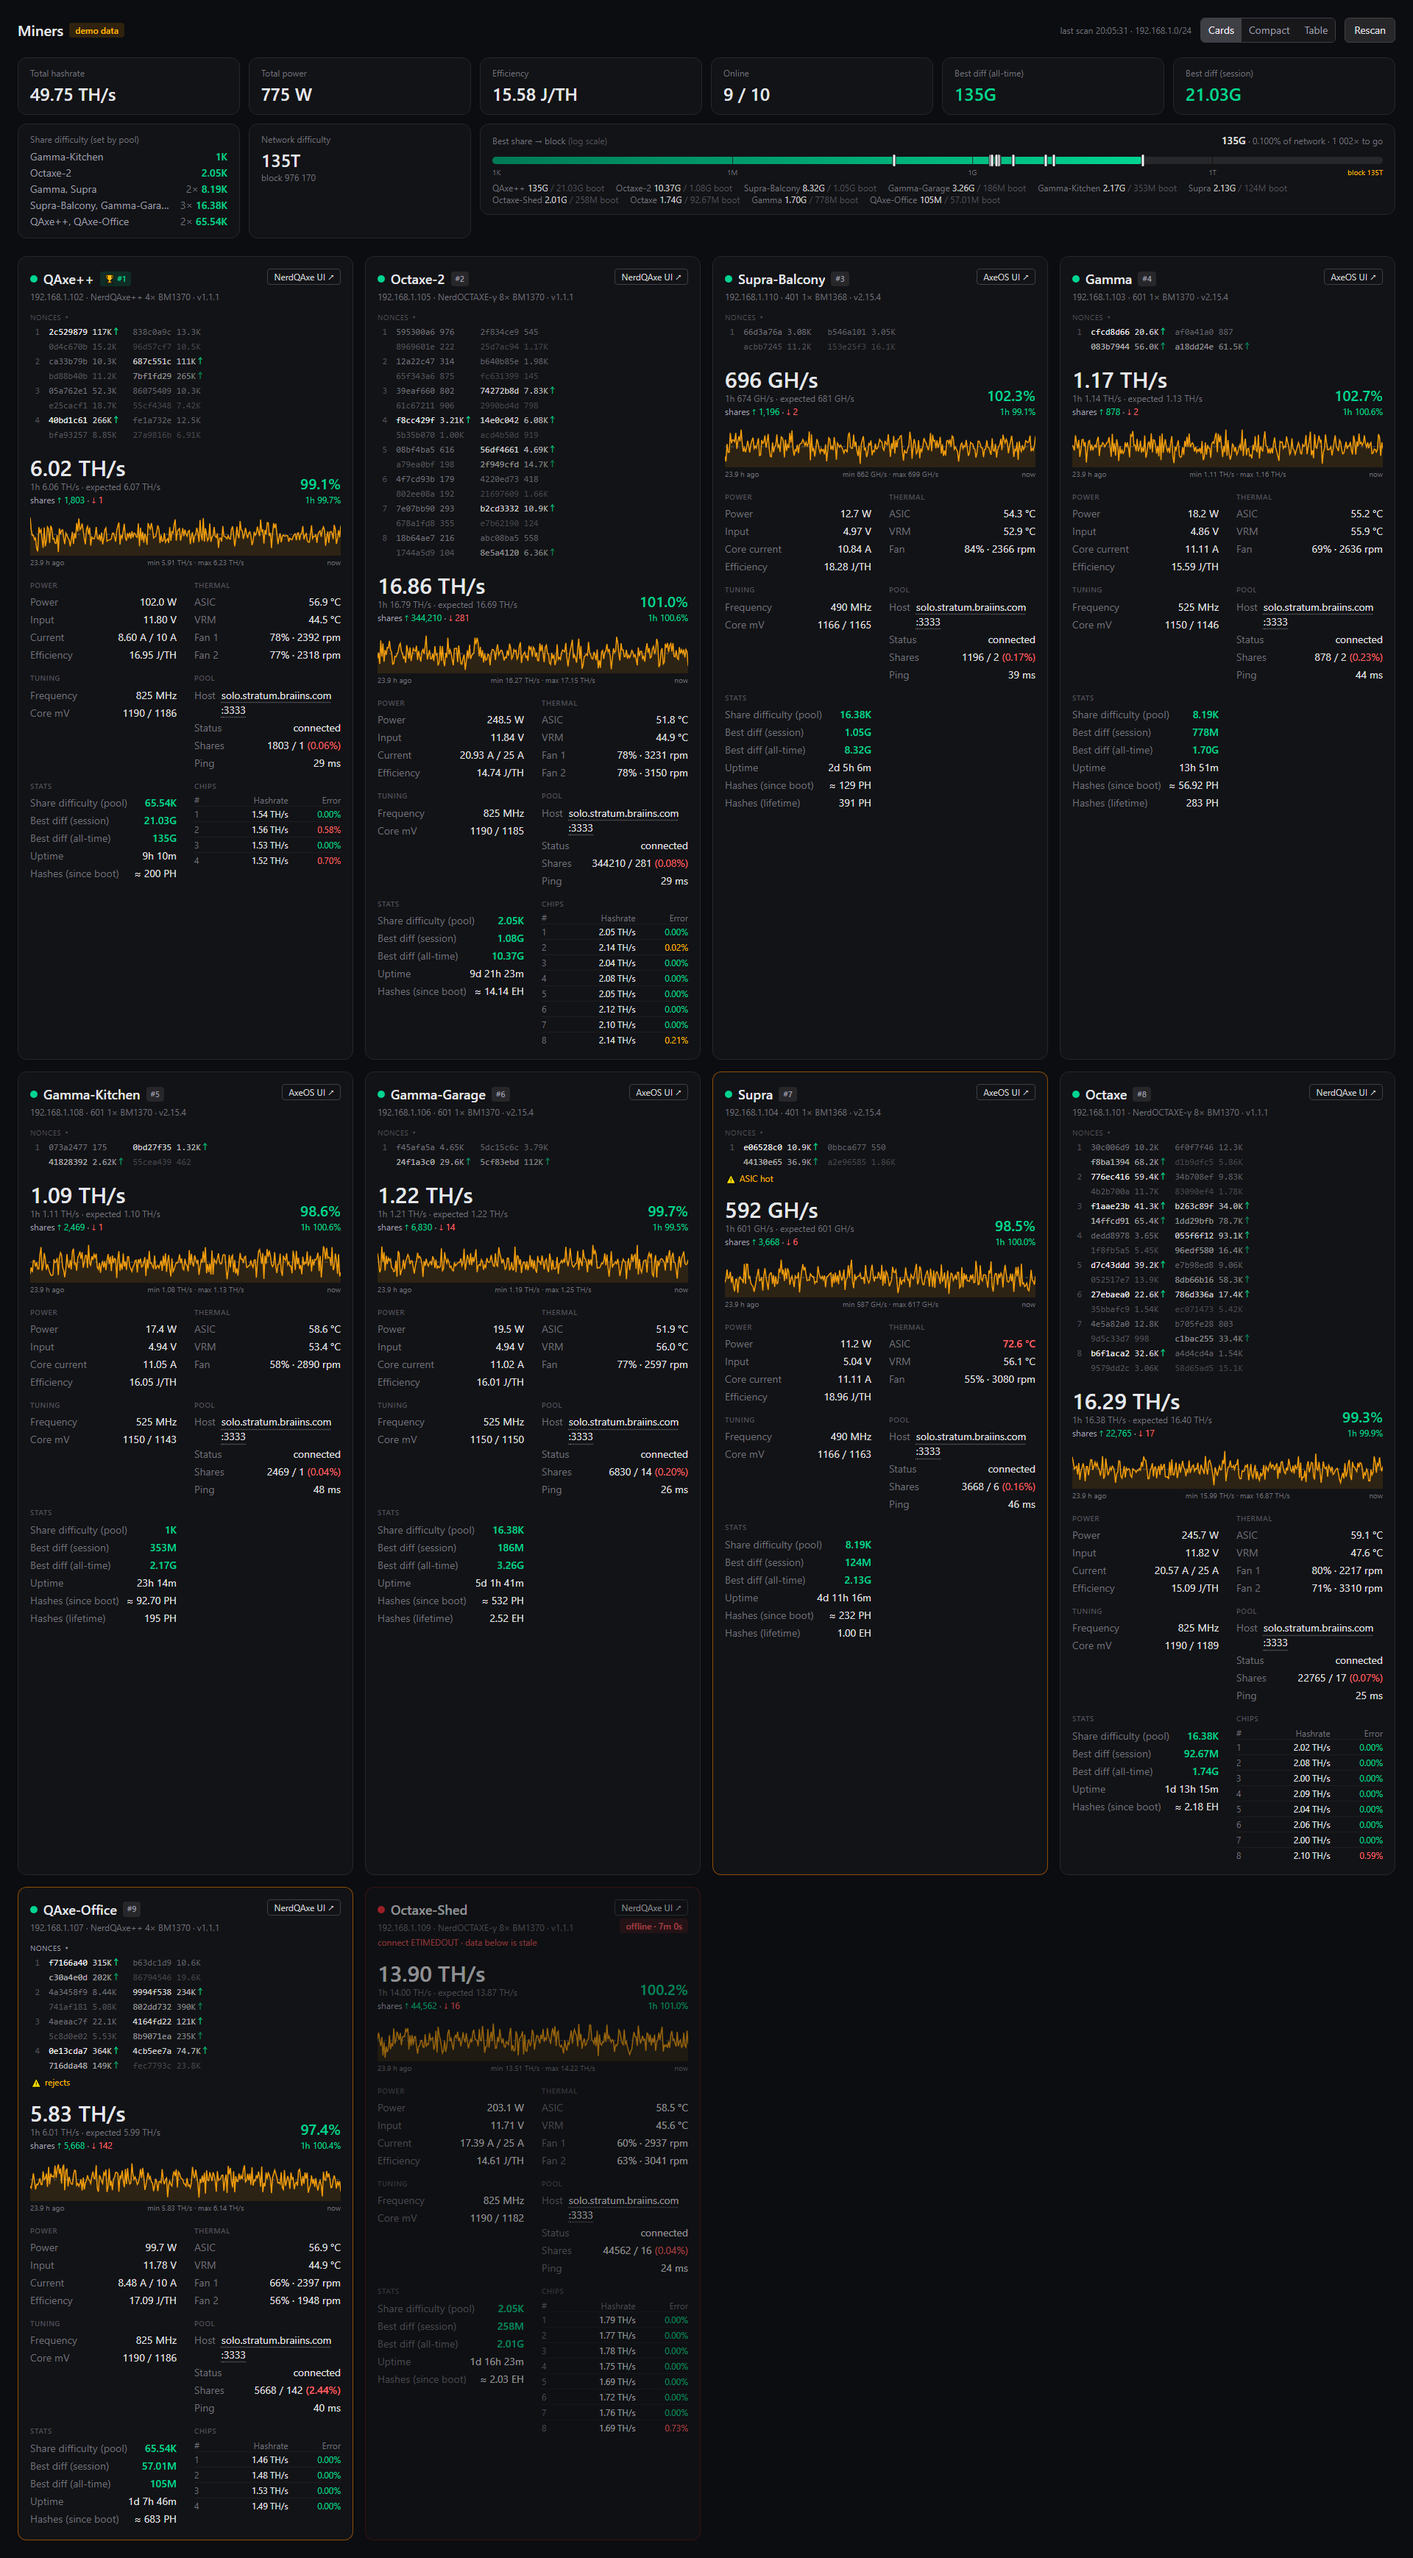
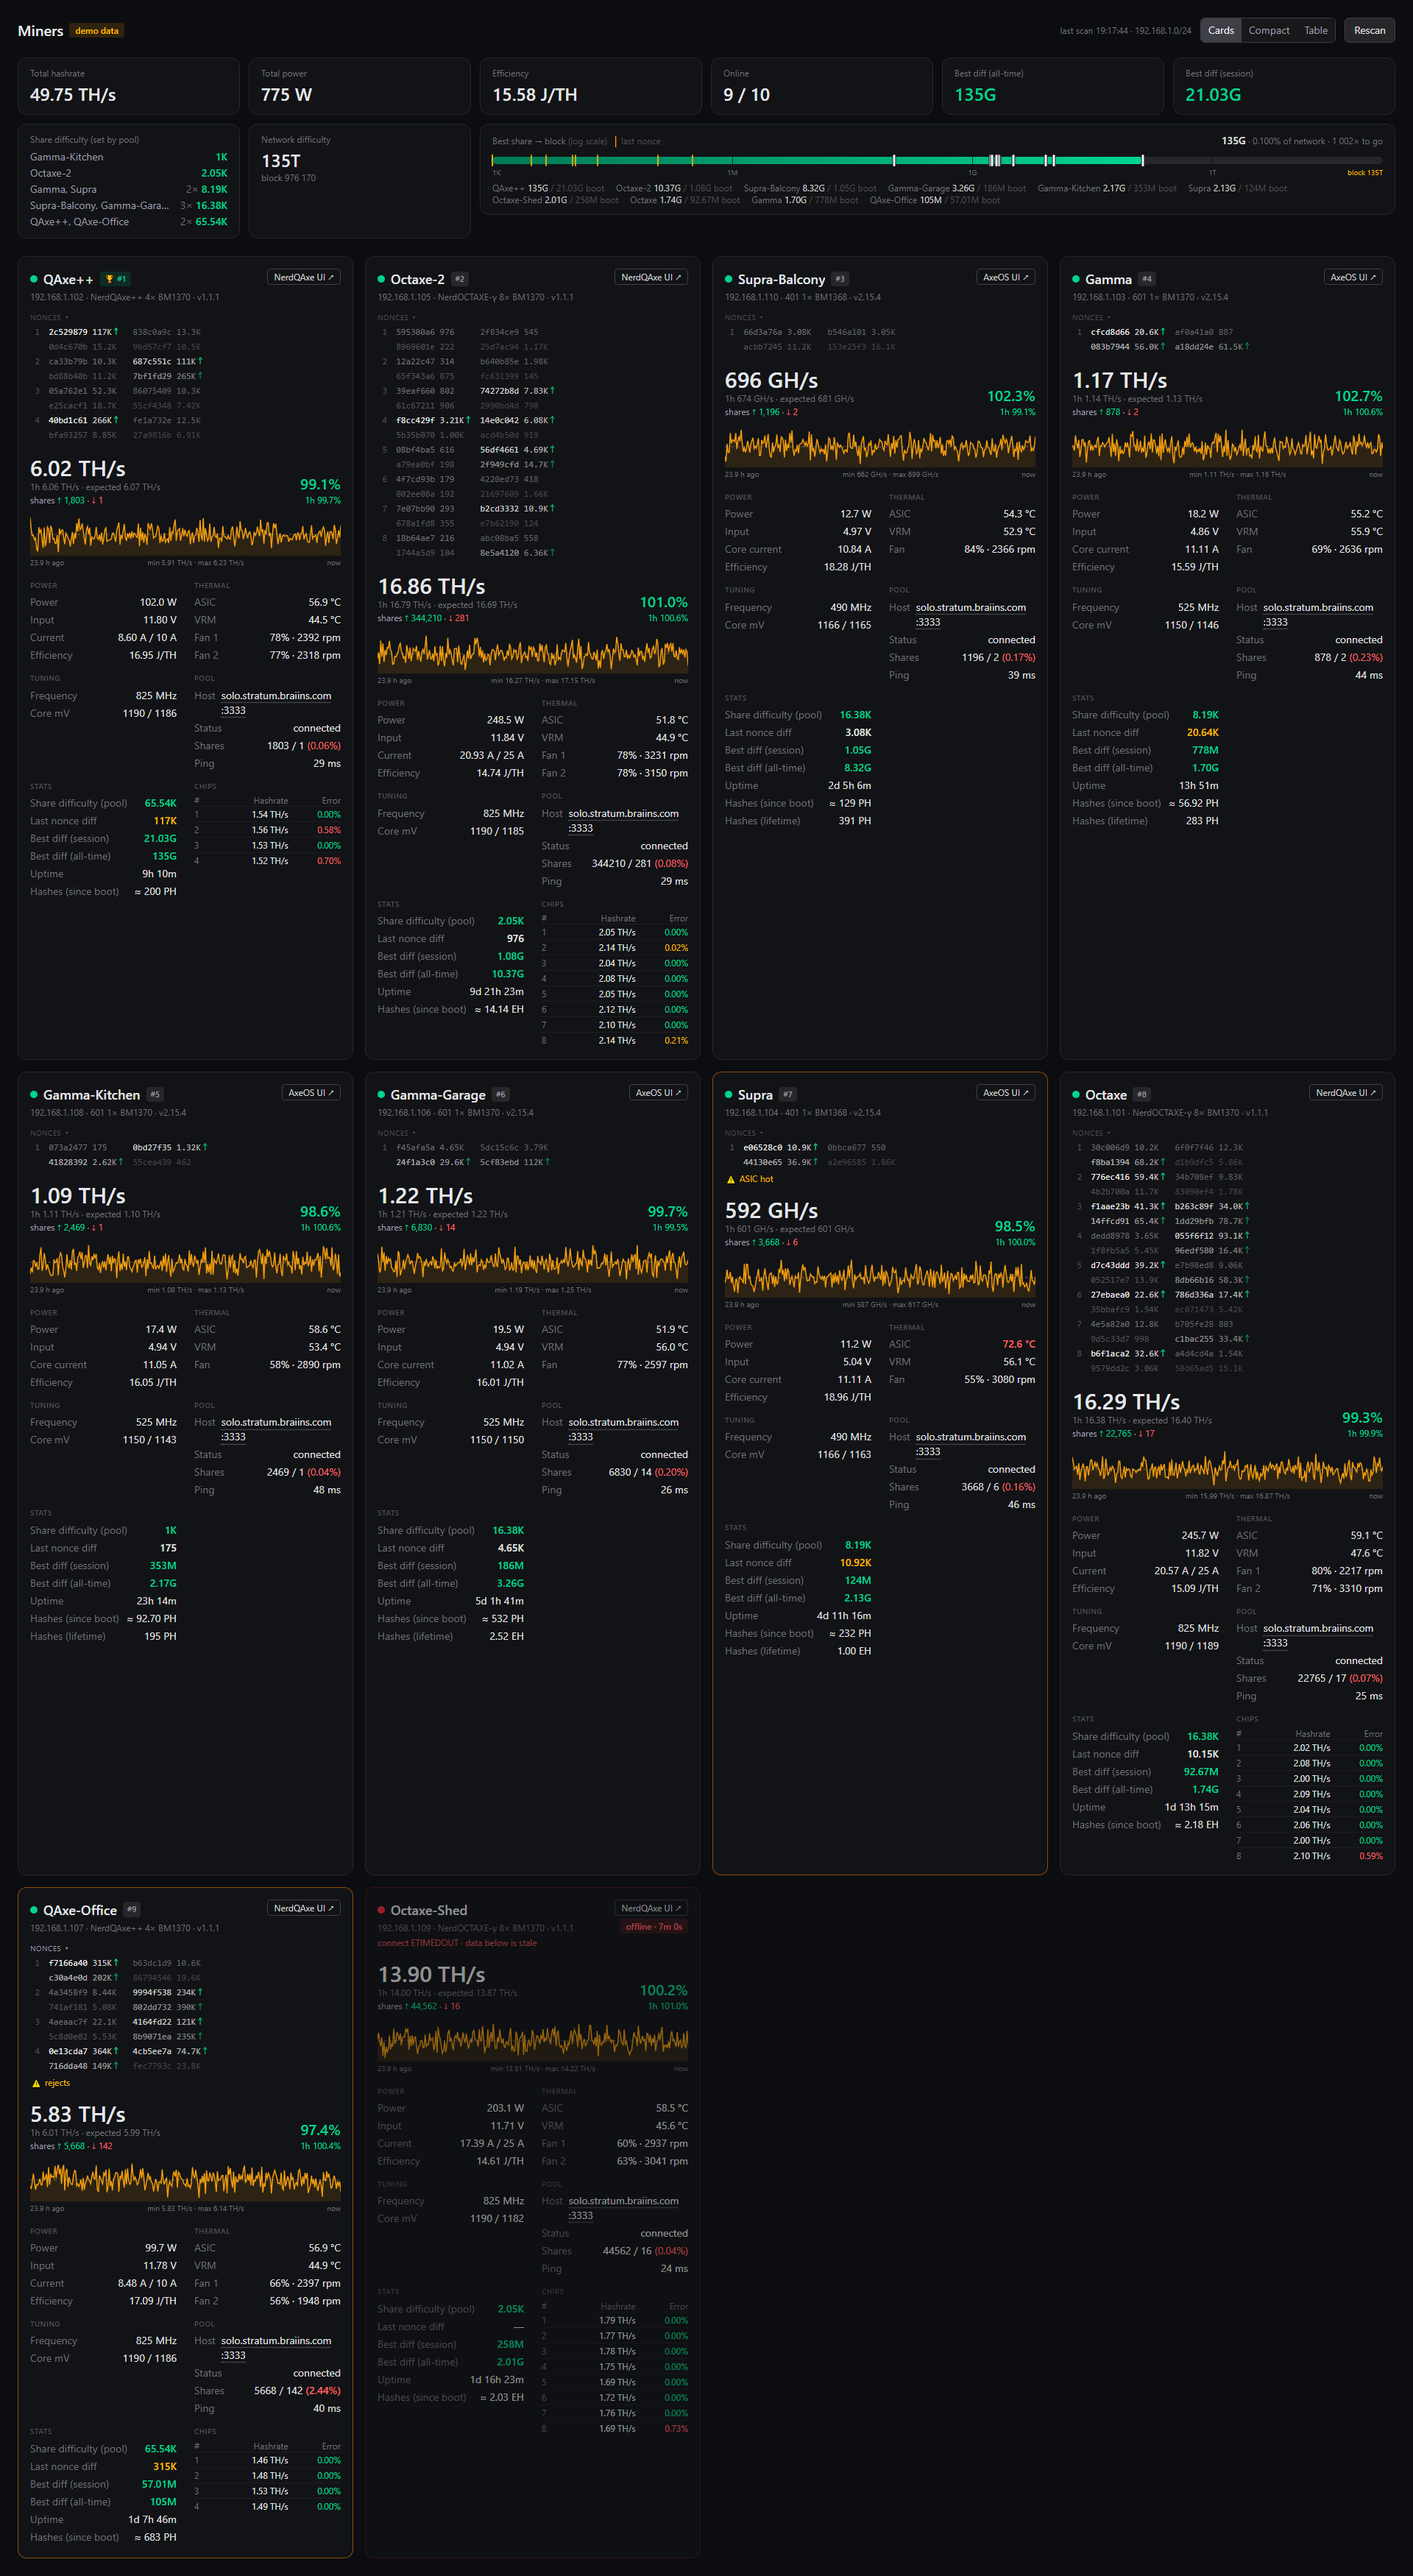
README: screenshots with the live last-nonce difficulty, describe it
- docs/cards.png, compact.png, table.png regenerated from the demo mode (10 miners).
- Features: last nonce difficulty on cards, compact cards and the table; amber ticks on the
  best-share bar.

diff --git a/README.md b/README.md
@@ -36,7 +36,7 @@ and a Bitaxe Gamma 601 on AxeOS v2.15.
     window, a card is never narrower than 440 px). With more than 6 miners the nonce feeds
     start collapsed.
   - **Compact**: small cards with hashrate, % of expected, chart, power, J/TH, ASIC temperature,
-    shares, share difficulty and best share; "more" opens the full card in place. This is the
+    shares, share difficulty, last nonce, best share since boot and ever, uptime; "more" opens the full card in place. This is the
     default when there are more than 6 miners.
   - **Table**: one row per miner; click the name to open its full card under the row.
 - Leaderboard: miners are ordered by their best share since boot, the leader gets a 🏆 #1 badge,
@@ -52,7 +52,8 @@ and a Bitaxe Gamma 601 on AxeOS v2.15.
   difficulty share one line), the network difficulty
   with the current block height, and a log-scale bar from share to block difficulty
   marking every miner's best share (all-time and since boot; with more than 6 miners only
-  the all-time best, as thin ticks).
+  the all-time best, as thin ticks). Thin amber ticks show each miner's newest nonce and
+  hop along the bar as new nonces come in.
 - A card per miner:
   - online/offline status (offline after 30 s without a response)
   - current and 1 h hashrate vs expected (`frequency × smallCoreCount × asicCount / 1000`)
@@ -62,6 +63,8 @@ and a Bitaxe Gamma 601 on AxeOS v2.15.
   - pool: host, connected, fallback in use, accepted/rejected shares and reject %, ping; the host links
     to the pool's stats page for the wallet in the stratum user (Braiins Solo:
     `solo.braiins.com/stats/<address>`, ckpool solo: `<host>/users/<address>`; other pools: no link)
+  - difficulty of the newest nonce, live from the nonce feed (amber when it was sent to the
+    pool as a share); also in the compact cards and the table
   - best difficulty, uptime; hashes computed since boot (estimate: average hashrate × uptime)
     and, on AxeOS 2.x, the exact lifetime counter `totalHashes` (NerdQAxe does not report one)
   - link to the miner's own web UI (AxeOS / NerdQAxe), opens in a new tab
